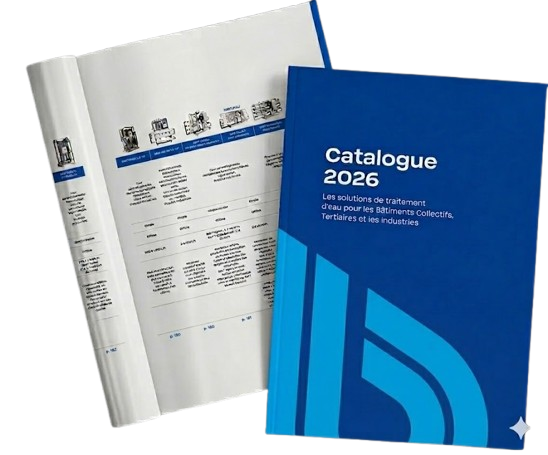
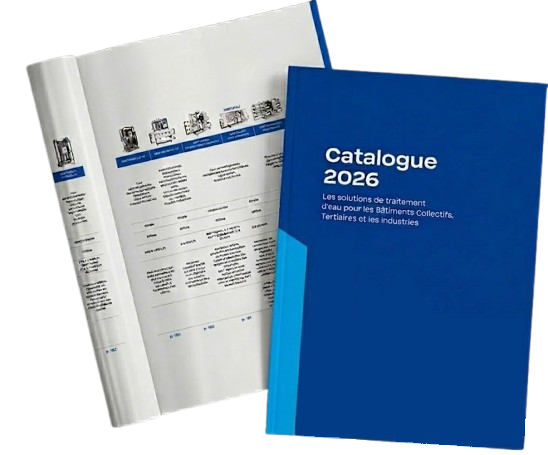
v2.0

Changed region(s): [[0.5274, 0.5538, 0.8996, 0.9846], [0.9307, 0.8923, 0.9617, 0.9846]]

diff --git a/src/components/WaterDiagnosticQuiz.tsx b/src/components/WaterDiagnosticQuiz.tsx
@@ -53,12 +53,12 @@ const symptomCategories = [
     {
         title: "Accumulation et taches",
         options: [
-            "Échelle / accumulation",
-            "Résidus de savon",
+            "Accumulation de tartre",
+            "Corrosion des tuyaux",
+            "Linge rêche",
             "Plats tachetés",
-            "Linge rêche et irritant",
-            "Corrosion des canalisations",
-            "taches de rouille",
+            "Résidus de savon",
+            "Taches de rouille",
             "Taches bleu-vert"
         ]
     },
@@ -72,27 +72,28 @@ const symptomCategories = [
     {
         title: "Goût, odeur et aspect",
         options: [
-            "Chlore (Goût/Odeur)",
             "Amer",
-            "Salé",
-            "mauvais goût",
+            "Chlore (Goût/Odeur)",
+            "Mauvais goût",
             "Métallique",
+            "Moisisserie",
+            "Nuageux",
             "Odeur d'oeuf pourri",
-            "Moisisserie/marécageux",
-            "Nuageux/sédimentaire"
+            "Salé"
         ]
     },
     {
         title: "Contaminants",
         options: [
             "Arsenic",
-            "Chlore (Contaminant)",
-            "Nitrate",
             "Bactéries",
-            "Plomb",
+            "Chlore (Contaminant)",
+            "Eau dure",
             "Microplastiques",
+            "Nitrate",
             "PFAS",
-            "Eau dure"
+            "Plomb",
+
         ]
     }
 ];
@@ -185,7 +186,7 @@ const WaterDiagnosticQuiz = () => {
 
             if (fnError) throw fnError;
 
-            toast.success("Votre prescription a été envoyée par courriel !");
+            toast.success("Votre rapport a été envoyé par courriel !");
             setIsSubmitted(true);
         } catch (error) {
             console.error("Error submitting diagnostic:", error);
@@ -200,8 +201,8 @@ const WaterDiagnosticQuiz = () => {
         const { source, signs } = formData;
         const recs = [];
 
-        if (["Échelle / accumulation", "Résidus de savon", "Plats tachetés", "Linge rêche et irritant",
-            "cheveux secs et ternes", "Peau sèche et irritée", "Eau dure"].some(s => signs.includes(s))) {
+        if (["Accumulation de tartre", "Résidus de savon", "Plats tachetés", "Linge rêche",
+            "cheveux secs et ternes", "Peau sèche", "Eau dure"].some(s => signs.includes(s))) {
             const isMunicipal = source === "Municipal";
             recs.push({
                 title: isMunicipal ? "Adoucisseur d'Eau Municipal" : "Adoucisseur d'Eau de Puits",
@@ -220,7 +221,7 @@ const WaterDiagnosticQuiz = () => {
             });
         }
 
-        if (["Chlore (Contaminant)", "Chlore (Goût/Odeur)", "mauvais goût"].some(s => signs.includes(s))) {
+        if (["Chlore (Contaminant)", "Chlore (Goût/Odeur)", "Mauvais goût"].some(s => signs.includes(s))) {
             recs.push({
                 title: "Filtre spécialisé Chlor Stop",
                 desc: "Élimine le chlore et les mauvais goûts pour une eau rafraîchissante et sans odeur de produits chimiques.",
@@ -265,7 +266,7 @@ const WaterDiagnosticQuiz = () => {
             });
         }
 
-        if (signs.includes("Nuageux/sédimentaire")) {
+        if (signs.includes("Nuageux")) {
             recs.push({
                 title: "Filtre spécialisé Vortex",
                 desc: "Clarifie l'eau trouble en éliminant les particules en suspension et sédiments fins.",
@@ -274,7 +275,7 @@ const WaterDiagnosticQuiz = () => {
             });
         }
 
-        if (signs.includes("Corrosion des canalisations") || signs.includes("Taches bleu-vert")) {
+        if (signs.includes("Corrosion des tuyaux") || signs.includes("Taches bleu-vert")) {
             recs.push({
                 title: "Filtre neutralisant Zen-pH",
                 desc: "Neutralise l'eau corrosive pour protéger vos tuyaux de cuivre contre l'amincissement et les taches vertes.",
@@ -423,7 +424,7 @@ const WaterDiagnosticQuiz = () => {
                                             onValueChange={(val) => setFormData({ ...formData, residenceType: val })}
                                             className="grid grid-cols-1 sm:grid-cols-3 gap-3 max-w-2xl mx-auto pt-4"
                                         >
-                                            {[ "Condo", "Maison", "Chalet" ].map((option) => (
+                                            {[ "Chalet", "Condo", "Maison" ].map((option) => (
                                                 <div key={option} className="relative">
                                                     <RadioGroupItem value={option} id={`res-${option}`} className="peer sr-only" />
                                                     <Label
@@ -465,9 +466,9 @@ const WaterDiagnosticQuiz = () => {
                                         <RadioGroup
                                             value={formData.source}
                                             onValueChange={(val) => handleSourceChange(val)}
-                                            className="grid grid-cols-1 sm:grid-cols-3 gap-3 max-w-2xl mx-auto pt-4"
+                                            className="grid grid-cols-1 sm:grid-cols-2 gap-3 max-w-2xl mx-auto pt-4"
                                         >
-                                            {[ "Municipal", "Eau de puits", "Pas sûr" ].map((option) => (
+                                            {[ "Municipal", "Eau de puits" ].map((option) => (
                                                 <div key={option} className="relative">
                                                     <RadioGroupItem value={option} id={`src-${option}`} className="peer sr-only" />
                                                     <Label
@@ -523,7 +524,7 @@ const WaterDiagnosticQuiz = () => {
                                             <ArrowLeft className="w-4 h-4 mr-2" /> Précédent
                                         </Button>
                                         <Button disabled={!formData.household} onClick={() => setStep(5)} size="lg" className="rounded-full px-12 transition-all w-full sm:w-auto">
-                                            Analyser mon eau <ArrowRight className="ml-2 w-4 h-4" />
+                                            Analysez mon eau <ArrowRight className="ml-2 w-4 h-4" />
                                         </Button>
                                     </div>
                                 </div>
@@ -586,7 +587,7 @@ const WaterDiagnosticQuiz = () => {
                                             lineHeight: '28px',
                                             fontWeight: 500,
                                             color: 'rgb(15, 23, 42)'
-                                        }}>Où envoyer votre prescription ?</h3>
+                                        }}>Où envoyer votre rapport ?</h3>
                                     </div>
 
                                     <div className="grid grid-cols-2 gap-4">
@@ -618,7 +619,7 @@ const WaterDiagnosticQuiz = () => {
                                     lineHeight: '28px',
                                     fontWeight: 500,
                                     color: 'rgb(15, 23, 42)'
-                                }}>Votre Prescription d'Eau</h2>
+                                }}>Votre rapport d'eau</h2>
                                 <p className="text-slate-500">Solutions recommandées pour votre foyer.</p>
                             </div>
 
@@ -634,7 +635,7 @@ const WaterDiagnosticQuiz = () => {
 
                             <div className="flex flex-col items-center gap-4 pt-6 border-t border-slate-100">
                                 <Button size="lg" className="bg-slate-900 border-slate-900 text-white hover:bg-white hover:text-slate-900 rounded-full px-12 shadow-xl transition-all" onClick={() => window.location.href = '/contact'}>Prendre rendez-vous avec un expert</Button>
-                                <Button variant="ghost" onClick={() => { setIsSubmitted(false); setStep(1); }} className="text-slate-400 text-xs hover:text-blue-600 font-bold">Relancer l'analyse</Button>
+                                <Button variant="ghost" onClick={() => { setIsSubmitted(false); setStep(1); }} className="text-slate-400 text-xs hover:text-blue-600 font-bold">Relancer le diagnostic</Button>
                             </div>
                         </div>
                     )}

diff --git a/src/pages/Systemes-de-desinfection-UV.tsx b/src/pages/Systemes-de-desinfection-UV.tsx
@@ -366,25 +366,26 @@ const DesinfectionUV = () => {
                                     <tr className="bg-gray-100">
                                         <th className="p-8 text-left text-gray-400 font-light uppercase tracking-wider w-1/4">Modèle</th>
                                         {[
-                                            { name: "VH200-F10", img: uvSystemImg2, badge: null },
-                                            { name: "VH410-F20", img: uvSystemImg3, badge: "Choix des Familles" },
-                                            { name: "Arros 15-IHS10", img: uvSystemImg4, badge: "Nouveau" }
+                                            { name: "VH200-F10", img: uvSystemImg2, badge: null, color: "bg-blue-600" },
+                                            { name: "VH410-F20", img: uvSystemImg3, badge: "Choix des Familles", color: "bg-blue-600" },
+                                            { name: "Arros 15-IHS10", img: uvSystemImg4, badge: "Nouveau", color: "bg-emerald-600" }
                                         ].map(m => (
-                                            <th key={m.name} className="py-8 px-4 text-center text-gray-900 font-bold relative">
-                                                <div className="flex flex-col items-center gap-2">
-                                                    <div className="relative inline-block">
+                                            <th key={m.name} className="p-6 text-center align-bottom relative">
+                                                <div className="flex flex-col items-center gap-6">
+                                                    <div className="relative group/img pr-4 pt-4">
                                                         {m.badge && (
-                                                            <span className="absolute -top-1 -right-8 bg-blue-600 text-white text-[7px] font-black px-2 py-0.5 rounded-full uppercase tracking-widest whitespace-nowrap shadow-lg shadow-blue-200/50 z-20">
+                                                            <span className={`absolute top-0 right-0 z-20 px-3 py-1 ${m.color} text-white rounded-full text-[8px] font-bold uppercase tracking-widest shadow-lg shadow-blue-900/10 whitespace-nowrap`}>
                                                                 {m.badge}
                                                             </span>
                                                         )}
+                                                        <div className="absolute inset-0 bg-blue-600 rounded-full blur-2xl opacity-0 group-hover/img:opacity-20 transition-opacity duration-700" />
                                                         <img
                                                             src={m.img}
                                                             alt={`Modèle ${m.name} - Stérilisateur d'eau UV haute performance Bricareau`}
-                                                            className="w-[120px] h-[100px] object-contain mx-auto mix-blend-multiply transition-transform duration-500 hover:scale-110"
+                                                            className="w-[140px] h-[120px] object-contain mx-auto mix-blend-multiply relative z-10 transition-transform duration-700 group-hover/img:scale-110"
                                                         />
                                                     </div>
-                                                    <div className="text-[14px] mt-2">{m.name}</div>
+                                                    <div className="text-lg font-bold text-[#1e3a8a]">{m.name}</div>
                                                 </div>
                                             </th>
                                         ))}

diff --git a/src/pages/Filtration.tsx b/src/pages/Filtration.tsx
@@ -333,7 +333,7 @@ const Filtration = () => {
                             <div className="w-full lg:w-1/2 relative -mx-6 lg:mx-0">
                                 <div className="relative group">
                                     {/* Main Hero Image */}
-                                    <div className="relative z-10 rounded-none lg:rounded-[3rem] overflow-hidden aspect-[4/5] shadow-none lg:shadow-2xl transition-transform duration-700 group-hover:scale-[1.01]">
+                                    <div className="relative z-10 rounded-none lg:rounded-[3rem] overflow-hidden aspect-square shadow-none lg:shadow-2xl transition-transform duration-700 group-hover:scale-[1.01]">
                                         <img
                                             src={glassOfWaterImg}
                                             alt="Verre d'eau pure provenant d'un système d'osmose inverse Bricareau"
@@ -423,7 +423,7 @@ const Filtration = () => {
                             <div className="w-full lg:w-1/2 relative -mx-6 lg:mx-0">
                                 <div className="relative group">
                                     {/* Main Hero Image */}
-                                    <div className="relative z-10 rounded-none lg:rounded-[3rem] overflow-hidden aspect-[4/5] shadow-none lg:shadow-2xl transition-transform duration-700 group-hover:scale-[1.01]">
+                                    <div className="relative z-10 rounded-none lg:rounded-[3rem] overflow-hidden aspect-square shadow-none lg:shadow-2xl transition-transform duration-700 group-hover:scale-[1.01]">
                                         <img
                                             src={africanGirlImg}
                                             alt="Enfant buvant de l'eau saine filtrée sous l'évier Bricareau"

diff --git a/src/components/BentoExperience.tsx b/src/components/BentoExperience.tsx
@@ -2,7 +2,7 @@ import React from 'react';
 import { ArrowRight } from "lucide-react";
 import diagnosticStepImg from "@/assets/step-diagnostic.png";
 import customStepImg from "@/assets/catalogue.png";
-import installationStepImg from "@/assets/SERVICES.jpg";
+import installationStepImg from "@/assets/Installation experte - Bricareau.jpg";
 import serenityStepImg from "@/assets/close-up-handsom-man-taking-bath.jpg";
 import familyImg from "@/assets/happy-family-enjoying-time-together.jpg";
 import bathroomImg from "@/assets/contemporary-bathroom-elements.jpg";

diff --git a/src/components/CustomerJourney.tsx b/src/components/CustomerJourney.tsx
@@ -5,7 +5,7 @@ import {
 } from "lucide-react";
 import diagnosticStepImg from "@/assets/step-diagnostic.png";
 import customStepImg from "@/assets/catalogue.png";
-import installationStepImg from "@/assets/SERVICES.jpg";
+import installationStepImg from "@/assets/Installation experte - Bricareau.jpg";
 import serenityStepImg from "@/assets/close-up-handsom-man-taking-bath.jpg";
 import { Button } from "@/components/ui/button";
 
